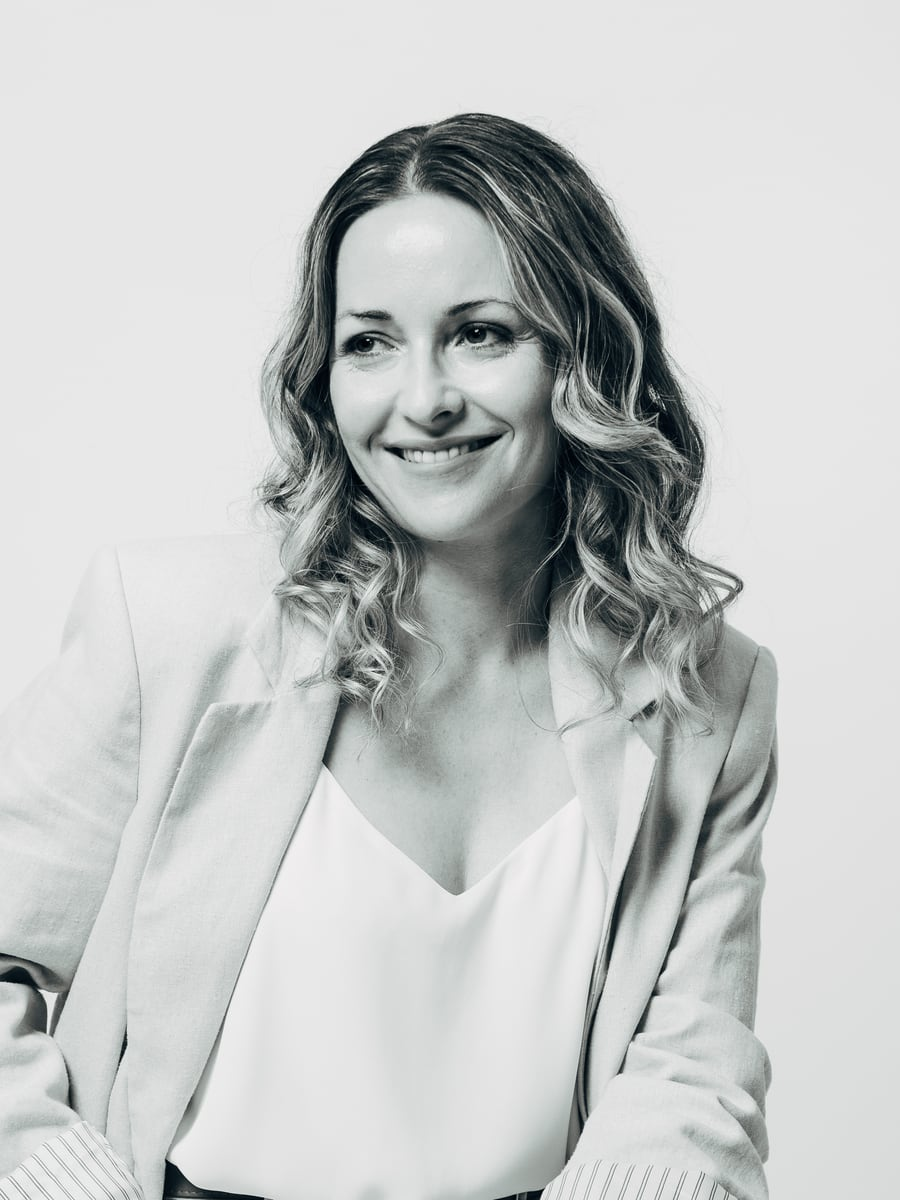
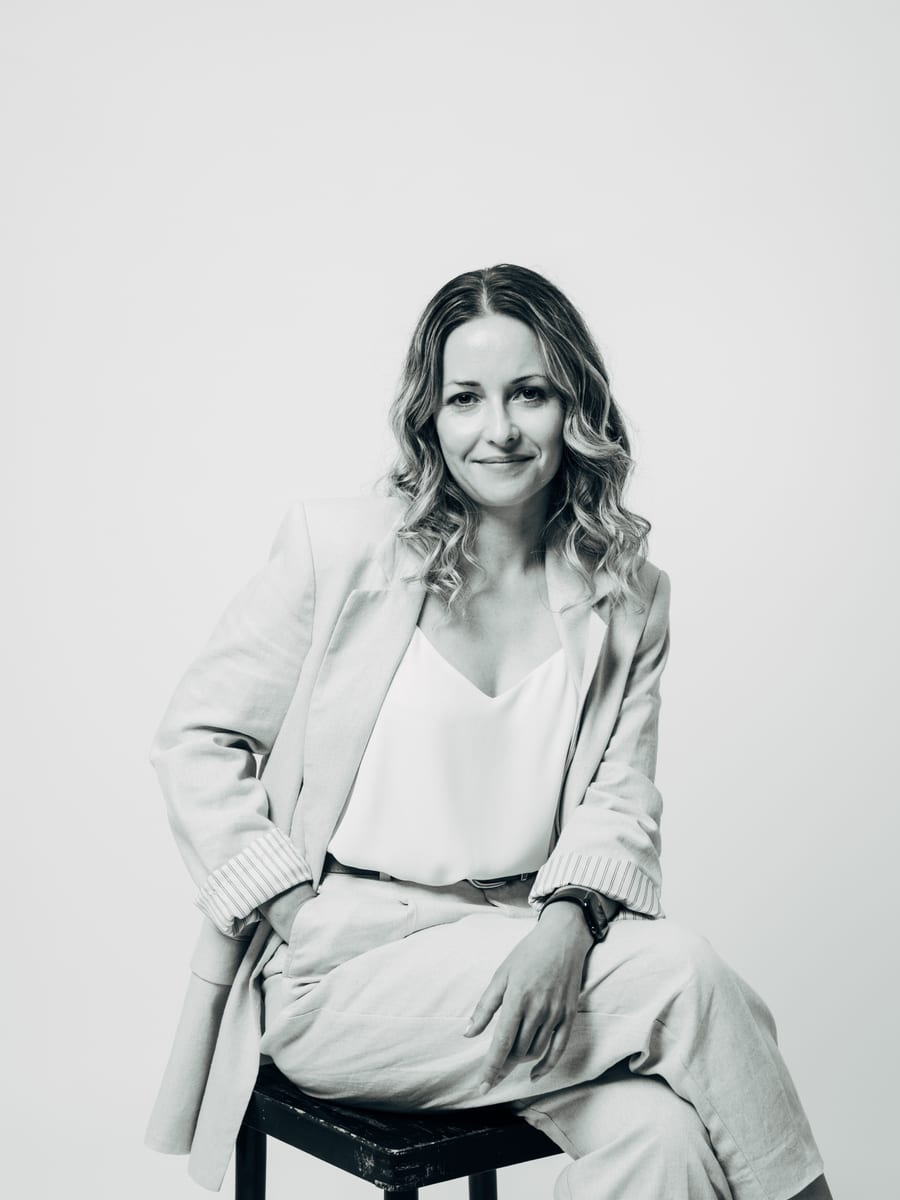
Mobile-Feinschliff Ökosystem/Companies + Elena-Portrait
Nur Mobile (<768px), Desktop unverändert.

Ökosystem (EcosystemSection):
- Reveal einmalig (once) — Grafik bleibt nach dem Erscheinen dauerhaft sichtbar,
  kein Ausblenden/„Blocken" beim Weiterscrollen mehr
- Parallax: Satelliten-Grafik driftet gescrubbt gegen den Scroll (eigener
  Wrapper, damit die Reveal-Transform unberührt bleibt) → Tiefe zurück

CompaniesBento:
- Mobile-Zwischenheadline „40+ / Companies & / Labels" (Dreizeiler) im
  About-Banijay-Stil: gescrubbte Konvergenz + einblendender Staub, uppercase,
  letterSpacing -0.02em, unitless line-height (Fix gegen Zeilen-Überlappung)
- Kategoriefilter mobil platzsparend: statt Chip-Buttons unterstrichene
  Text-Hyperlinks in 2 Zeilen (aktiv magenta+unterstrichen)
- mehr Abstand nach oben zur Ökosystem-Akkordeonsektion

Team (Founders/leadership): Elena Kats — neues Portrait (900×1200),
Name + Titel „Director Finance Projects & Business Systems", Fokus tiefer.

diff --git a/src/components/cinematic/algarve/CompaniesBento.tsx b/src/components/cinematic/algarve/CompaniesBento.tsx
@@ -8,6 +8,7 @@ import { ScrollTrigger } from "gsap/ScrollTrigger";
 import { useGSAP } from "@gsap/react";
 import { COMPANIES_DIRECTORY } from "@/data/companiesDirectory";
 import { ECO_CATEGORIES } from "@/data/ecosystem";
+import { DustLayer } from "./DustLayer";
 
 gsap.registerPlugin(ScrollTrigger, useGSAP);
 
@@ -225,6 +226,38 @@ export function AlgarveCompaniesBento() {
     { scope: root, dependencies: [rubrik], revertOnUpdate: true },
   );
 
+  // Mobile-Zwischenheadline „40+ / Companies & Labels" (Wolfram 19.07.): GENAU die
+  // Headline-Gestaltung von „About Banijay" (Editorial.animHead) — gescrubbte Konvergenz
+  // (obere Zeile von -15vh, untere von +15vh, scrub 0.8) + einblendender Staub. Das gibt
+  // der Section den fehlenden Parallax-Effekt zurück. Eigener Hook OHNE rubrik-Dependency,
+  // damit die Headline nicht bei jedem Filterwechsel neu aufsetzt.
+  useGSAP(
+    () => {
+      if (window.matchMedia("(prefers-reduced-motion: reduce)").matches) return;
+      if (!window.matchMedia("(max-width: 767px)").matches) return; // nur Mobile-Headline
+      const first = root.current?.querySelector<HTMLElement>("[data-bento-40-first]");
+      const last = root.current?.querySelector<HTMLElement>("[data-bento-40-last]");
+      const dust = root.current?.querySelector<HTMLElement>("[data-bento-40-dust]");
+      if (!first || !last) return;
+      const vh = window.innerHeight;
+      const htl = gsap.timeline({
+        scrollTrigger: { trigger: "[data-bento-40-head]", start: "top bottom", end: "bottom 90%", scrub: 0.8 },
+      });
+      htl
+        .from(first, { y: -0.15 * vh, ease: "none", duration: 1 }, 0)
+        .from(last, { y: 0.15 * vh, ease: "none", duration: 1 }, 0);
+      if (dust) {
+        htl.fromTo(
+          dust,
+          { autoAlpha: 0, scale: 0.55, transformOrigin: "50% 50%" },
+          { autoAlpha: 0.7, scale: 1, ease: "power2.out", duration: 0.8 },
+          0.1,
+        );
+      }
+    },
+    { scope: root },
+  );
+
   // Kachel-Videos: nur sichtbare spielen (40 parallele Decodes vermeiden).
   useEffect(() => {
     const vids = Array.from(root.current?.querySelectorAll<HTMLVideoElement>("[data-bento-video]") ?? []);
@@ -247,13 +280,56 @@ export function AlgarveCompaniesBento() {
       {/* FULL SIZE (Wolfram 13.07.): kein maxWidth-Container mehr — die Liste
           läuft full-bleed mit dem 2vw-Randmaß der übrigen Module. Oben knapp:
           die AnimatedHeading davor bringt ihren eigenen Raum mit. */}
-      <div className="w-full pb-24 pt-4 lg:pb-32 lg:pt-6" style={{ paddingLeft: "2vw", paddingRight: "2vw" }}>
+      <div className="w-full pb-24 pt-4 lg:pb-32 lg:pt-6 max-[767px]:!pt-14" style={{ paddingLeft: "2vw", paddingRight: "2vw" }}>
         {/* Kein eigener Header mehr (Wolfram 13.07.): die Headline kommt als
             großes AnimatedHeading-Panel direkt VOR dieser Section (page.tsx). */}
 
-        {/* Rubrik-Filter (Ökosystem-Kategorien) — Chip-Optik wie News-Filter,
-            mittelachsig überm Grid */}
-        <div className="mb-8 flex flex-wrap justify-center gap-2.5 md:gap-3">
+        {/* Mobile-Zwischenheadline (Wolfram 19.07.): „40+ Companies & Labels" — auf
+            Desktop liefert die Ökosystem-Swap-Phase diese Headline; auf Mobile ist der
+            Swap aus, darum hier als eigene Headline über der Company-Video-Section.
+            Nur Mobile (md:hidden). */}
+        <div
+          data-bento-40-head
+          className="relative mb-4 mt-10 flex flex-col items-center justify-center overflow-clip text-center md:hidden"
+          style={{ minHeight: "min(34vh, 320px)" }}
+        >
+          {/* Staub-Ebene wie hinter „About Banijay" (data-ed-head-dust) — blendet
+              gescrubbt ein, maskiert an den Kanten. */}
+          <div
+            data-bento-40-dust
+            aria-hidden
+            className="pointer-events-none absolute inset-0 opacity-0"
+            style={{
+              maskImage: "linear-gradient(transparent 0%, black 14%, black 86%, transparent 100%)",
+              WebkitMaskImage: "linear-gradient(transparent 0%, black 14%, black 86%, transparent 100%)",
+            }}
+          >
+            <div className="absolute inset-0">
+              <DustLayer boost={0.85} center={{ x: 0.5, y: 0.5 }} radius={0.6} />
+            </div>
+          </div>
+          {/* Typo 1:1 wie „About Banijay": uppercase, letterSpacing -0.02em, lh 112% */}
+          <h2
+            className="relative m-0"
+            style={{ fontFamily: SHARP, fontWeight: 500, color: PAPER, textTransform: "uppercase", letterSpacing: "-0.02em", lineHeight: 1.05 }}
+          >
+            {/* lineHeight UNITLESS (1.05): skaliert mit der jeweiligen Span-Schriftgröße.
+                „112%" auf dem h2 (ohne eigene font-size) hätte 18px-Zeilenboxen ergeben →
+                die 56px-„40+"-Glyphen wären übergelaufen und hätten die Caption überlagert. */}
+            <span data-bento-40-first className="block" style={{ fontSize: "15vw" }}>40+</span>
+            {/* Mobile-Dreizeiler (Wolfram 19.07.): „Companies &" und „Labels" auf zwei
+                Zeilen umbrechen → 40+ / COMPANIES & / LABELS. */}
+            <span data-bento-40-last className="block" style={{ fontSize: "7vw", marginTop: "0.15em" }}>
+              Companies &amp;<br />Labels
+            </span>
+          </h2>
+        </div>
+
+        {/* Rubrik-Filter (Ökosystem-Kategorien). Desktop: Chip-Buttons (Optik wie
+            News-Filter). Mobile (Wolfram 19.07.): platzsparend — KEINE Buttons, sondern
+            unterstrichene Text-Hyperlinks sauber nebeneinander (aktiv magenta+unterstrichen),
+            damit die 8 Rubriken in ~2 Zeilen passen. */}
+        <div className="mb-8 flex flex-wrap justify-center gap-2.5 md:gap-3 max-[767px]:!mb-6 max-[767px]:!gap-x-4 max-[767px]:!gap-y-1">
           {[{ key: "alle", label: "Alle" }, ...ECO_CATEGORIES.map((c) => ({ key: c.key, label: c.label }))].map((r) => {
             const isActive = r.key === rubrik;
             return (
@@ -262,10 +338,10 @@ export function AlgarveCompaniesBento() {
                 type="button"
                 onClick={() => setRubrik(r.key)}
                 aria-pressed={isActive}
-                className={`inline-flex items-center gap-2 rounded-[6px] border px-5 py-2.5 text-sm font-medium transition-colors duration-200 max-[767px]:!px-4 max-[767px]:!py-2 max-[767px]:!text-[3.6vw] ${
+                className={`inline-flex items-center gap-2 rounded-[6px] border px-5 py-2.5 text-sm font-medium transition-colors duration-200 max-[767px]:!rounded-none max-[767px]:!border-0 max-[767px]:!bg-transparent max-[767px]:!px-0 max-[767px]:!py-0.5 max-[767px]:!text-[3.8vw] ${
                   isActive
-                    ? "border-[#ff4370] bg-[#ff4370] text-[#f8f7f3]"
-                    : "border-[rgba(248,247,243,0.18)] bg-transparent text-[#f8f7f3] hover:border-[#f8f7f3]"
+                    ? "border-[#ff4370] bg-[#ff4370] text-[#f8f7f3] max-[767px]:!bg-transparent max-[767px]:!text-[#ff4370] max-[767px]:!underline max-[767px]:!underline-offset-[5px] max-[767px]:!decoration-[1.5px]"
+                    : "border-[rgba(248,247,243,0.18)] bg-transparent text-[#f8f7f3] hover:border-[#f8f7f3] max-[767px]:!text-[rgba(248,247,243,0.72)] max-[767px]:!no-underline"
                 }`}
                 style={{ fontFamily: SHARP }}
               >

diff --git a/src/components/cinematic/algarve/EcosystemSection.tsx b/src/components/cinematic/algarve/EcosystemSection.tsx
@@ -216,8 +216,12 @@ export function AlgarveEcosystem() {
         gsap.set("[data-eco-orbit]", { autoAlpha: 0, scale: 0.62, transformOrigin: "50% 50%" });
         gsap.set("[data-eco-dot], [data-eco-anchor], [data-eco-b]", { autoAlpha: 0 });
         gsap.set("[data-eco-acc-row]", { autoAlpha: 0, y: 14 });
+        // EINMALIG (Wolfram 17.07., 5. Runde): once statt toggleActions. Vorher blendete
+        // das Reveal beim Zurück-/Weiterscrollen wieder aus (reverse) → wirkte „geblockt",
+        // Grafik verschwand, Sprünge. Jetzt spielt es genau EINMAL beim Reinscrollen und
+        // bleibt danach dauerhaft stehen — die Satellitengrafik ist ab dann immer sichtbar.
         const tl = gsap.timeline({
-          scrollTrigger: { trigger: root.current, start: "top 72%", toggleActions: "play none none reverse" },
+          scrollTrigger: { trigger: root.current, start: "top 80%", once: true },
         });
         tl.to("[data-eco-reveal]", { autoAlpha: 1, y: 0, duration: 0.5, ease: "power2.out" }, 0)
           .to("[data-eco-orbit]", { autoAlpha: 1, scale: 1, duration: 0.6, stagger: 0.06, ease: "power2.out" }, 0.05)
@@ -225,6 +229,19 @@ export function AlgarveEcosystem() {
           .to("[data-eco-dot], [data-eco-anchor]", { autoAlpha: 1, duration: 0.35 }, 0.42)
           // die Rubriken kommen einzeln nach (sukzessive „zum Vorschein")
           .to("[data-eco-acc-row]", { autoAlpha: 1, y: 0, duration: 0.42, stagger: 0.1, ease: "power2.out" }, 0.55);
+
+        // PARALLAX (Wolfram 19.07.): die Section wirkte nach dem Wegfall des Pins sehr
+        // still. Die Grafik driftet jetzt gescrubbt gegen den Scroll (eigener Wrapper,
+        // damit die Reveal-Transform der Bühne unberührt bleibt) → Tiefe zurück.
+        gsap.fromTo(
+          "[data-eco-parallax]",
+          { y: -42 },
+          {
+            y: 42,
+            ease: "none",
+            scrollTrigger: { trigger: root.current, start: "top bottom", end: "bottom top", scrub: true },
+          },
+        );
         return;
       }
 
@@ -349,6 +366,10 @@ export function AlgarveEcosystem() {
       {/* Der Teller: zentriert, mit vertikalen Gyroskop-Ringen ums Zentrum. Größer
           skaliert (Wolfram 14.07.): engeres viewBox (weniger Leerrand → Grafik füllt
           den Raum), höheres max-width auf großen Screens. */}
+      {/* Parallax-Wrapper (Wolfram 19.07.): auf Mobile driftet die Grafik gescrubbt gegen
+          den Scroll → Tiefe/Parallax. Eigener Wrapper, damit die Reveal-Transform auf der
+          INNEREN Bühne bleibt (kein doppelter transform-Writer). */}
+      <div data-eco-parallax>
       <div
         data-eco-reveal
         className="relative mx-auto mt-8 max-[767px]:!mt-4"
@@ -545,6 +566,7 @@ export function AlgarveEcosystem() {
             </div>
           );
         })}
+      </div>
       </div>
 
       {/* MOBILE-AKKORDEON (Wolfram 17.07., 2. Runde): unter der Satellitengrafik

diff --git a/src/data/leadership.ts b/src/data/leadership.ts
@@ -51,13 +51,9 @@ export const LEADERSHIP: Leader[] = [
   // Elena Kats (Wolfram 17.07.) — neue, zwölfte Person, „als Letzte von den Frauen"
   // eingefügt; die Männer rücken dadurch einen Index nach hinten. Dadurch ist die
   // mittlere Reihe weiter mit den 5 bisherigen Frauen voll, Elena eröffnet die untere
-  // Reihe (Grid jetzt 3 / 5 / 4).
-  // NAME + ROLLE BEWUSST OFFEN (Wolfram: „schreib erst mal keinen Namen dazu … die
-  // Position kenne ich nicht"). Nachname „Kats" ist bekannt, wird aber vorerst NICHT
-  // angezeigt — leere Strings lassen die Meta-Zeile leer. VOR LIVEGANG nachtragen.
-  // Beschnitt nach der 32-%-Regel der unteren/mittleren Reihe (Kachel 142×138):
-  // Ausschnitt 2675×3566 ab 1430,1283 (Kopf oben 1711, Kinn 2852, Gesichtsmitte x 2767).
-  { name: "", role: "", img: "/people/elena-kats.jpg" },
+  // Reihe (Grid jetzt 3 / 5 / 4). Name + Rolle nachgetragen (Wolfram 19.07.), neues
+  // Portrait (Elena.jpg → 900×1200) ausgetauscht.
+  { name: "Elena Kats", role: "Director Finance Projects & Business Systems", img: "/people/elena-kats.jpg" },
 
   // ── Untere Reihe (Index 9–11) ─────────────────────────────────────────────
   // Echtes Portrait (Wolfram 17.07.) — löst den Platzhalter lead-5.jpg ab.

diff --git a/src/components/cinematic/algarve/Founders.tsx b/src/components/cinematic/algarve/Founders.tsx
@@ -38,7 +38,10 @@ const FOCUS: Record<string, string> = {
   // Aylin Firat (Wolfram 17.07.) — echtes Portrait, ersetzt lead-2.jpg. Bereits auf
   // Kopf/Oberkörper beschnitten (siehe leadership.ts), daher nur leichter Top-Bias.
   "/people/aylin-firat.jpg": "50% 18%",
-  "/people/elena-kats.jpg": "50% 18%",
+  // Elena Kats (Wolfram 19.07.) — neues Ganzkörper-Sitzfoto (Kopf ~24–29 % der Bildhöhe),
+  // weiter unten als die engen Headshots → Fokus tiefer, damit der Kopf oben sitzt und
+  // weniger Weißraum darüber bleibt. Ggf. am Gerät nachziehen.
+  "/people/elena-kats.jpg": "50% 27%",
   // Michael Gaul (Wolfram 17.07.) — echtes Portrait, ersetzt lead-5.jpg. Nach derselben
   // Regel wie Aylin beschnitten (siehe leadership.ts), daher derselbe Top-Bias.
   "/people/michael-gaul.jpg": "50% 18%",
